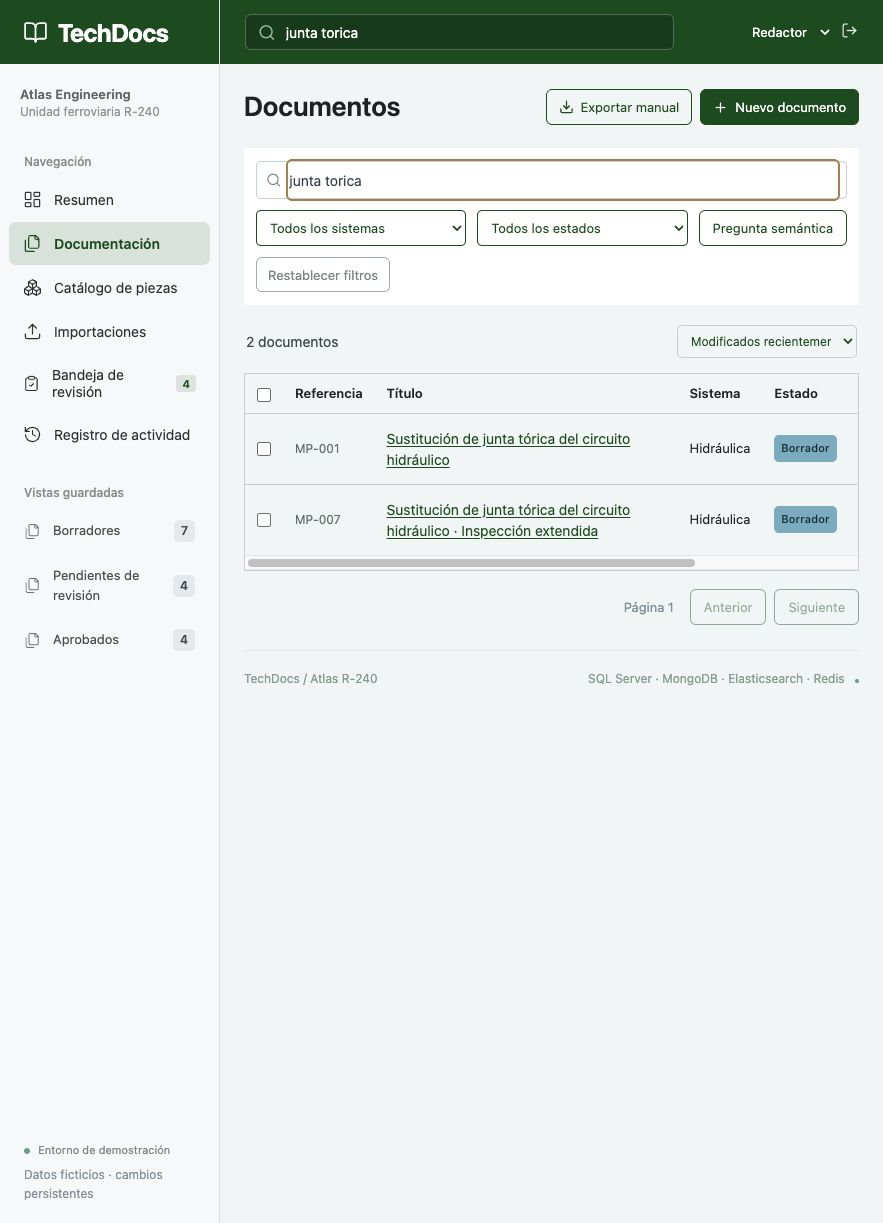
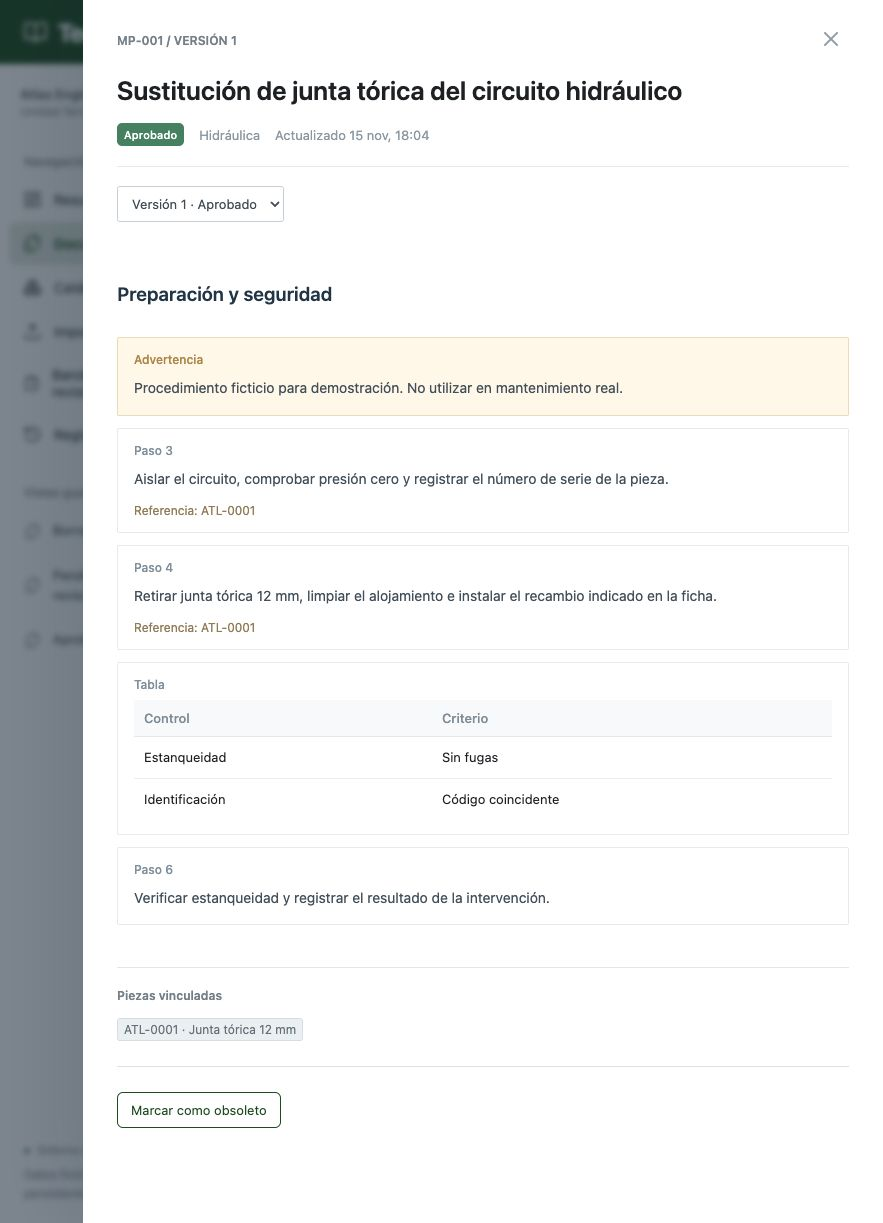
Relacionar correctamente el catálogo de ejemplo con sus sistemas

diff --git a/src/TechDocs.Infrastructure/Setup.cs b/src/TechDocs.Infrastructure/Setup.cs
@@ -60,9 +60,10 @@ public static class Setup
         var systems = new[] { "Hidráulica", "Frenado", "Tracción", "Climatización", "Estructura", "Señalización" }.Select(n => new TechnicalSystem { ProductId = product.Id, Name = n }).ToArray();
         db.Systems.AddRange(systems);
         var supplier = new Supplier { Name = "Componentes Atlas · Ficticio" }; db.Suppliers.Add(supplier);
+        var systemByPart = new[] { 0, 0, 1, 1, 0, 3 };
         var names = new[] { "Junta tórica 12 mm", "Filtro hidráulico", "Válvula de seguridad", "Disco de freno", "Sensor de presión", "Bomba de circulación" };
         var faker = new Faker("es"); faker.Random = new Randomizer(42);
-        var parts = Enumerable.Range(0, 36).Select(i => new Part { Code = $"ATL-{i + 1:0000}", Name = names[i % names.Length] + (i < 6 ? "" : $" · Serie {i / 6 + 1}"), Specification = $"Catálogo ficticio. Material {faker.PickRandom("acero inoxidable", "elastómero NBR", "aluminio")}; inspección cada {faker.Random.Int(2, 8) * 1000} km.", SystemId = systems[i % systems.Length].Id, SupplierId = supplier.Id }).ToArray();
+        var parts = Enumerable.Range(0, 36).Select(i => new Part { Code = $"ATL-{i + 1:0000}", Name = names[i % names.Length] + (i < 6 ? "" : $" · Serie {i / 6 + 1}"), Specification = $"Catálogo ficticio. Material {faker.PickRandom("acero inoxidable", "elastómero NBR", "aluminio")}; inspección cada {faker.Random.Int(2, 8) * 1000} km.", SystemId = systems[systemByPart[i % systemByPart.Length]].Id, SupplierId = supplier.Id }).ToArray();
         db.Parts.AddRange(parts);
         await db.SaveChangesAsync(ct);
         var svc = scope.ServiceProvider.GetRequiredService<DocumentService>();
@@ -70,7 +71,7 @@ public static class Setup
         for (var i = 0; i < 12; i++)
         {
             var p = parts[i];
-            var id = await svc.CreateAsync(new($"MP-{i + 1:000}", titles[i % 6] + (i > 5 ? " · Inspección extendida" : ""), systems[i % systems.Length].Id,
+            var id = await svc.CreateAsync(new($"MP-{i + 1:000}", titles[i % 6] + (i > 5 ? " · Inspección extendida" : ""), p.SystemId,
             [new("heading", "Preparación y seguridad"), new("warning", "Procedimiento ficticio para demostración. No utilizar en mantenimiento real."), new("step", "Aislar el circuito, comprobar presión cero y registrar el número de serie de la pieza.", p.Code), new("step", $"Retirar {p.Name.ToLowerInvariant()}, limpiar el alojamiento e instalar el recambio indicado en la ficha.", p.Code), new("table", "Control | Criterio\nEstanqueidad | Sin fugas\nIdentificación | Código coincidente"), new("step", "Verificar estanqueidad y registrar el resultado de la intervención.")], [p.Id]), users[0].Id, ct);
             if (i % 3 != 0)
             {

diff --git a/tests/TechDocs.Tests/ApiTests.cs b/tests/TechDocs.Tests/ApiTests.cs
@@ -27,6 +27,15 @@ public sealed class ApiFactory : WebApplicationFactory<Program>
 }
 public sealed class ApiTests(ApiFactory factory) : IClassFixture<ApiFactory>
 {
+    [Fact]
+    public async Task BrakingComponentsBelongToTheBrakingSystem()
+    {
+        using var client = await factory.Login("Lector");
+        var result = await client.GetFromJsonAsync<JsonElement>("/api/parts?q=Disco");
+        var items = result.GetProperty("items").EnumerateArray().ToArray();
+        items.Should().NotBeEmpty();
+        items.All(x => x.GetProperty("system").GetString() == "Frenado").Should().BeTrue();
+    }
     [Fact] public async Task AuthenticationIsRequired() { var r = await factory.CreateClient().GetAsync("/api/documents"); r.StatusCode.Should().Be(HttpStatusCode.Unauthorized); }
     [Fact] public async Task ReaderCannotCreateDocuments() { using var c = await factory.Login("Lector"); var r = await c.PostAsJsonAsync("/api/documents", new { code = "MP-FAIL", title = "Test", systemId = Guid.NewGuid(), blocks = new[] { new { type = "step", text = "Hello" } }, partIds = Array.Empty<Guid>() }); r.StatusCode.Should().Be(HttpStatusCode.Forbidden); }
     [Fact] public async Task SearchIgnoresAccents() { using var c = await factory.Login("Lector"); var json = await c.GetFromJsonAsync<JsonElement>("/api/documents?q=junta%20torica"); json.GetProperty("total").GetInt32().Should().BeGreaterThan(0); }

diff --git a/docs/validation.md b/docs/validation.md
@@ -1,6 +1,6 @@
 # Validación
 
-Validado en macOS ARM64 con SDK .NET 10.0.404, Node 22 y Docker Desktop. La solución y el frontend compilan; 21 pruebas pasan con `RUN_CONTAINER_TESTS=1`, incluida SQL Server real en contenedor amd64.
+Validado en macOS ARM64 con SDK .NET 10.0.404, Node 22 y Docker Desktop. La solución y el frontend compilan; 22 pruebas pasan con `RUN_CONTAINER_TESTS=1`, incluida SQL Server real en contenedor amd64.
 
 Cobertura funcional: JWT y roles, flujo de revisión/aprobación, concurrencia de piezas, versiones y su contenido anterior, referencias inválidas, búsqueda sin acentos, exportación PDF, parseo XML y bloqueo de entidades externas. El despliegue completo utiliza MongoDB, Elasticsearch, Redis y SQL Server; el modo local tiene adaptadores expresos.
 

diff --git a/README.md b/README.md
@@ -63,7 +63,7 @@ flowchart LR
 
 ## Calidad y decisiones
 
-21 pruebas automáticas, incluida integración con Testcontainers/SQL Server. Comprueban separación de funciones, autenticación, acceso de solo lectura, edición concurrente, referencias inválidas, XML sin entidades externas, impacto, conservación de versiones, búsqueda y generación de PDF.
+22 pruebas automáticas, incluida integración con Testcontainers/SQL Server. Comprueban separación de funciones, autenticación, acceso de solo lectura, edición concurrente, referencias inválidas, XML sin entidades externas, impacto, conservación de versiones, búsqueda y generación de PDF.
 
 ```bash
 dotnet test
